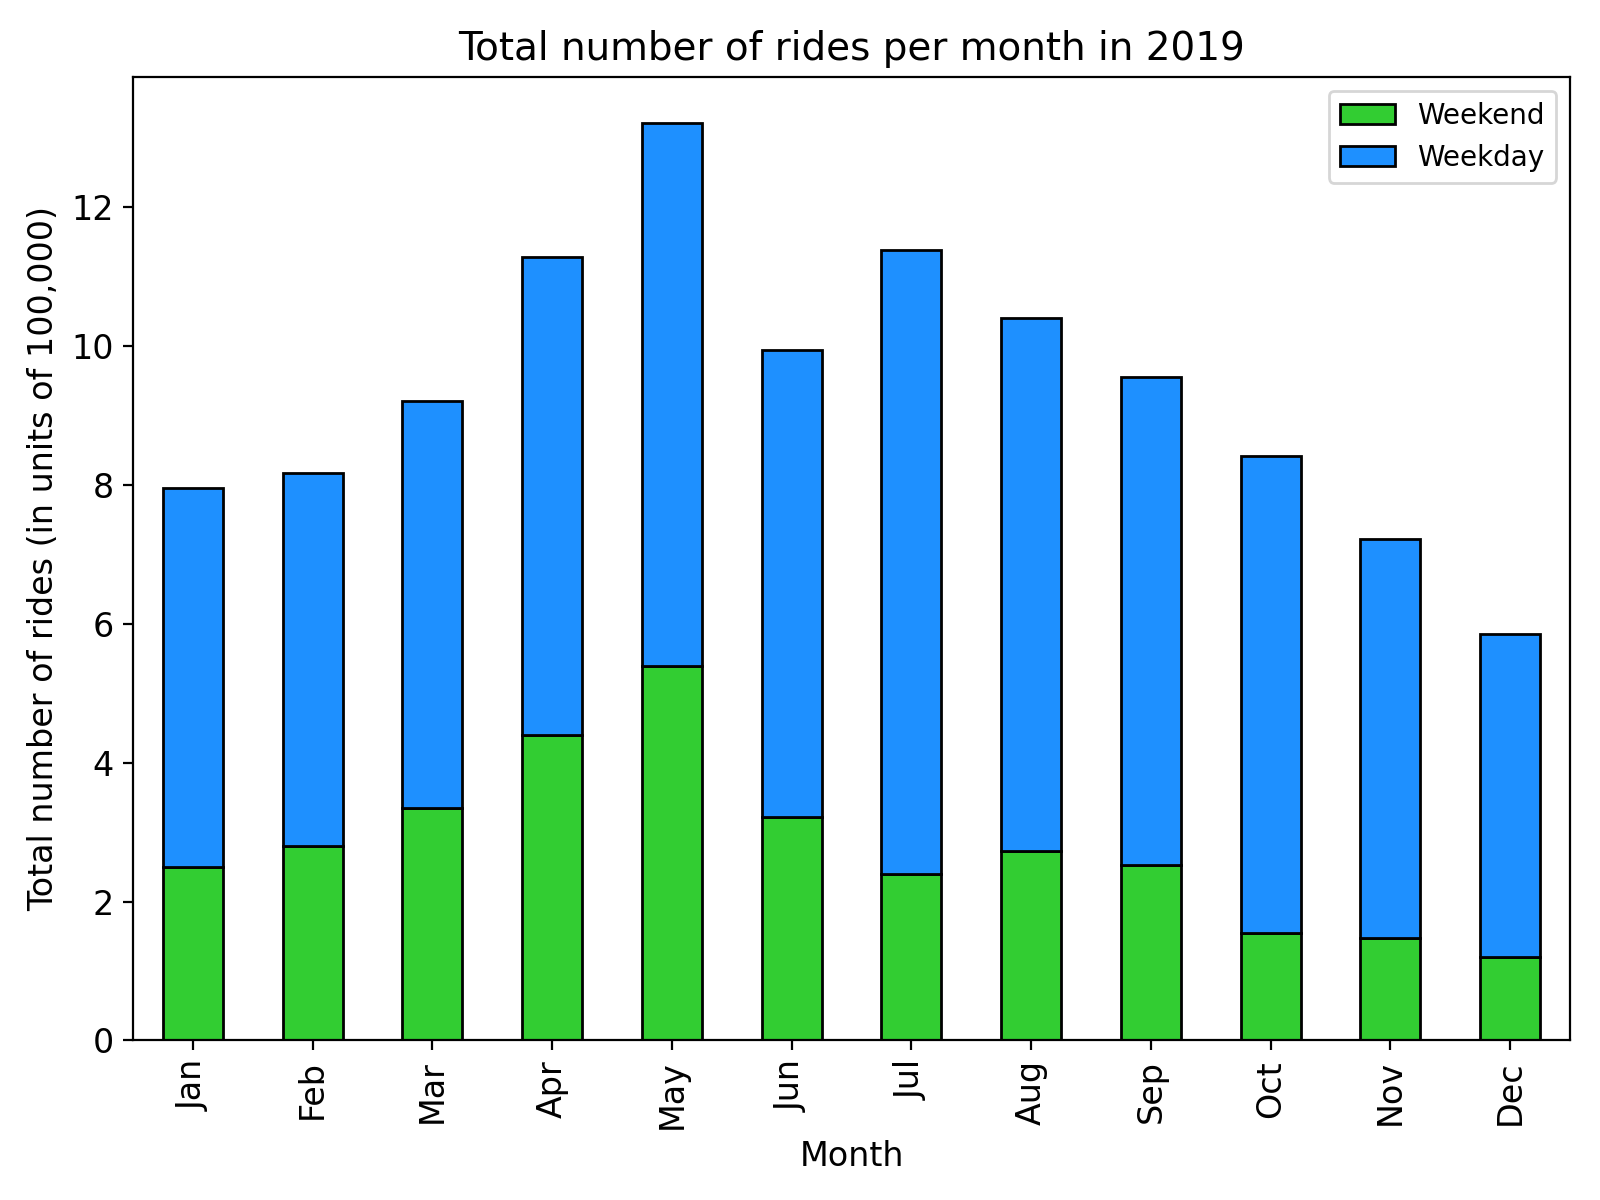
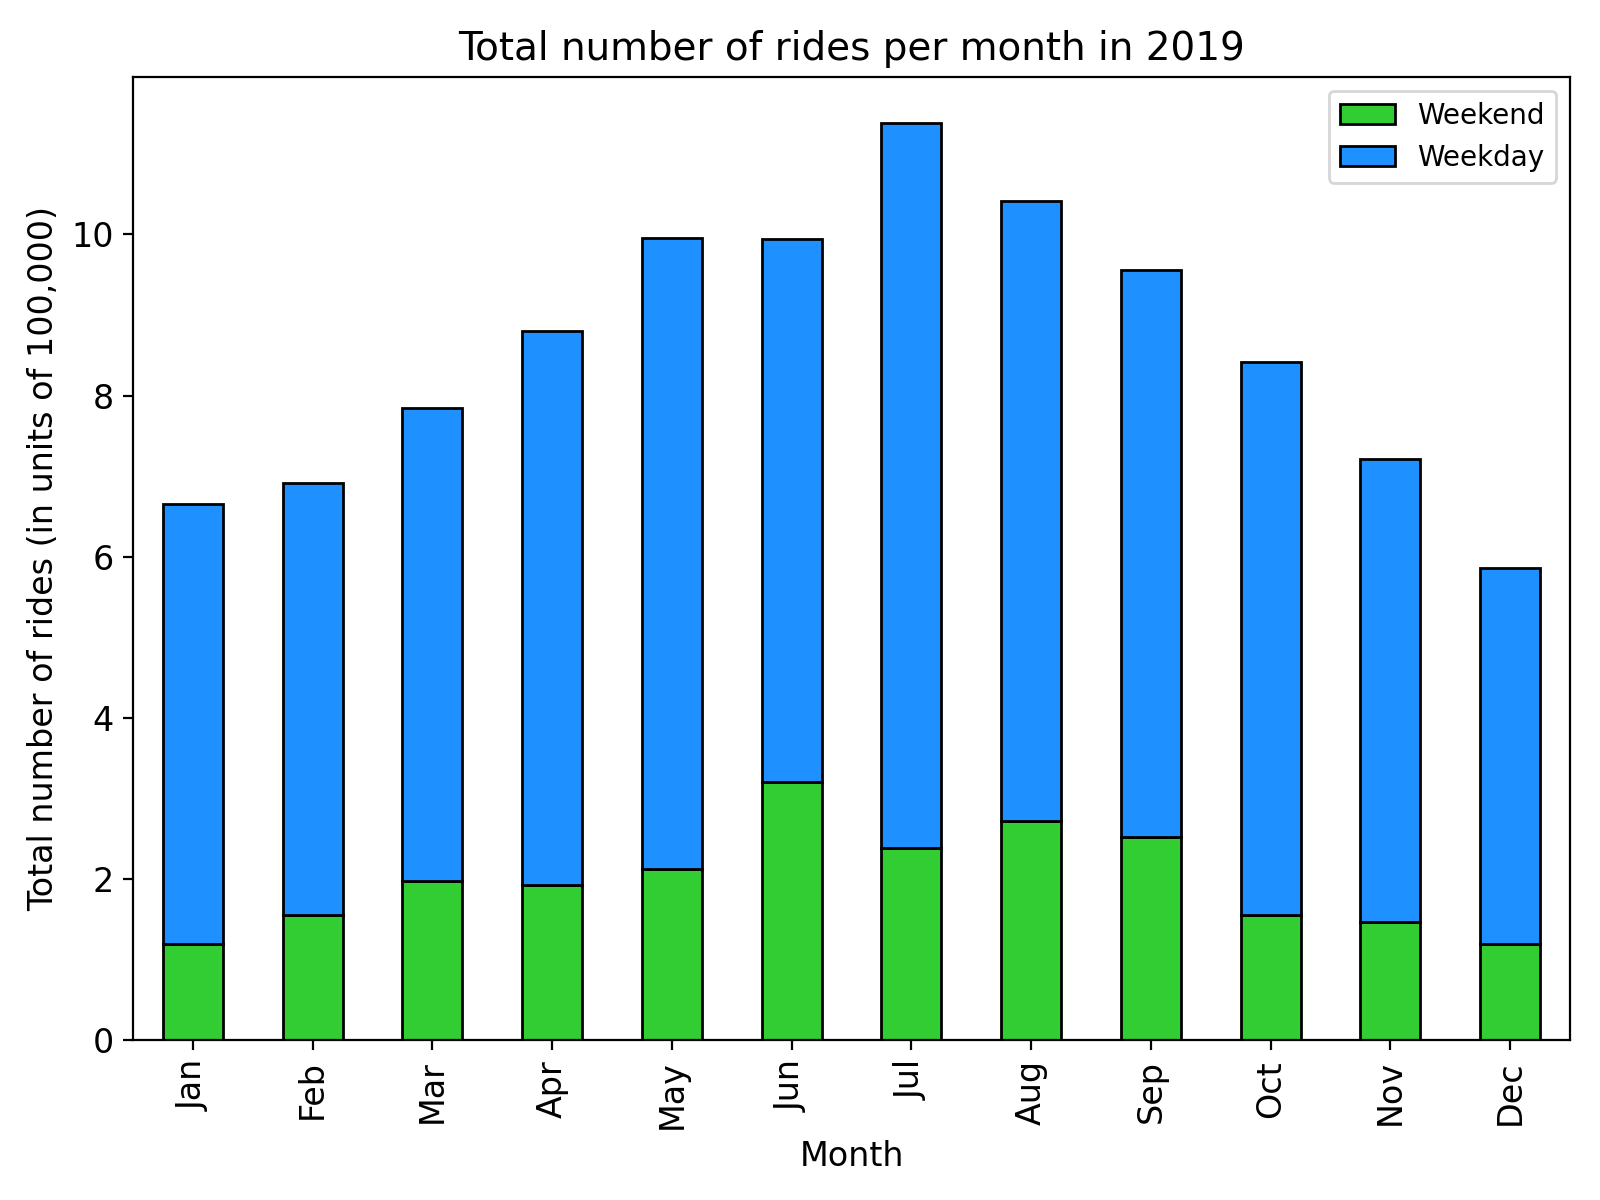
Fixed year 2019 selection error in weekend query

diff --git a/exploratory_data_analysis/ratio_rides_by_month.py b/exploratory_data_analysis/ratio_rides_by_month.py
@@ -12,12 +12,14 @@ con = sqlite3.connect(data_dir / 'journey-data_2019-2020.db')
 query_wkday = ''' SELECT strftime("%m", End_Date) AS Month, 
                          COUNT(Rental_Id) AS WeekDay_Rides
                     FROM Journeys
-                   WHERE strftime("%w", End_Date) NOT IN ("0", "6") AND strftime("%Y", End_Date) = "2019"
+                   WHERE strftime("%w", End_Date) NOT IN ("0", "6")
+                     AND strftime("%Y", End_Date) = "2019"
                 GROUP BY Month'''
 query_wkend = ''' SELECT strftime("%m", End_Date) AS Month, 
                          COUNT(Rental_Id) AS WeekEnd_Rides
                     FROM Journeys
                    WHERE strftime("%w", End_Date) IN ("0", "6")
+                     AND strftime("%Y", End_Date) = "2019"
                 GROUP BY Month'''
 query_results = [(con.execute(cur), con.execute(cur).fetchall()) for cur in [query_wkday, query_wkend]]
 results_df_list = [pd.DataFrame(result[1], columns=[x[0] for x in result[0].description]) for result in query_results]

diff --git a/exploratory_data_analysis/rides_by_month.py b/exploratory_data_analysis/rides_by_month.py
@@ -19,6 +19,7 @@ query_wkend = ''' SELECT strftime("%m", End_Date) AS Month,
                          COUNT(Rental_Id) AS WeekEnd_Rides
                     FROM Journeys
                    WHERE strftime("%w", End_Date) IN ("0", "6")
+                     AND strftime("%Y", End_Date) = "2019"
                 GROUP BY Month'''
 query_results = [(con.execute(cur), con.execute(cur).fetchall())
                  for cur in [query_wkday, query_wkend]]
